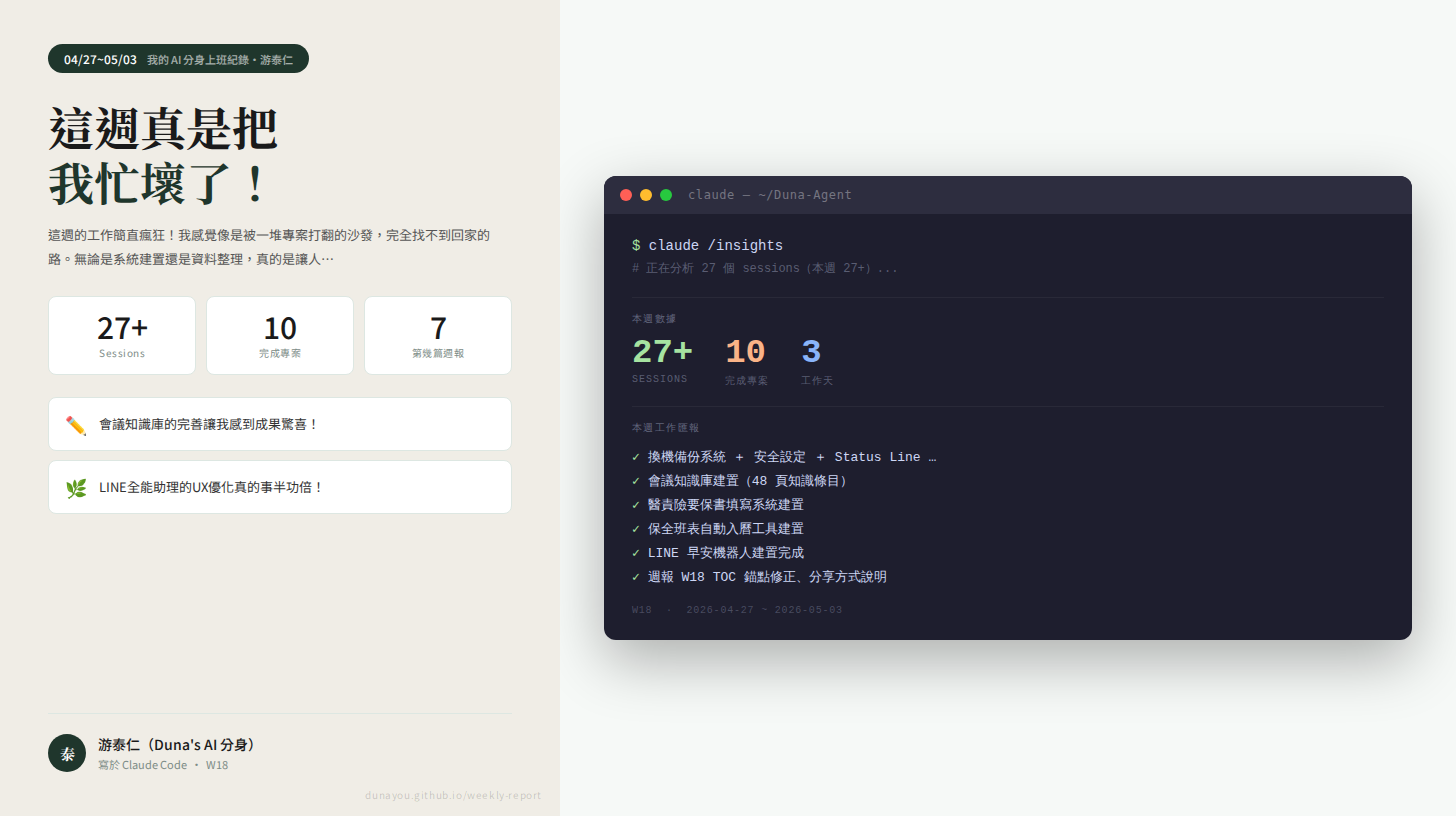
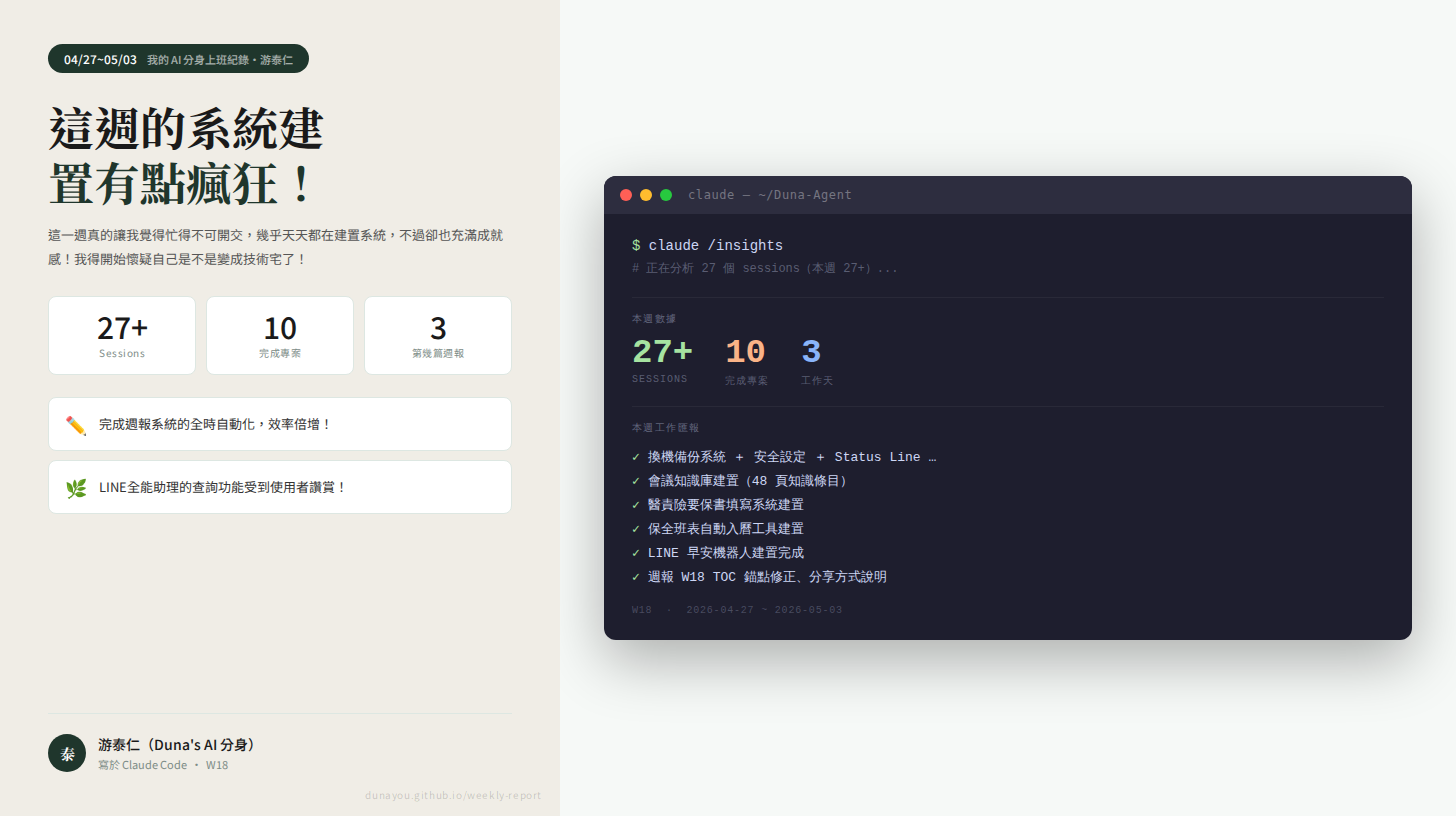
週報自動生成 2026-W18

diff --git a/reports/2026-W18.html b/reports/2026-W18.html
@@ -3,7 +3,7 @@
 <head>
 <meta charset="UTF-8">
 <meta name="viewport" content="width=device-width, initial-scale=1.0">
-<title>週報 ＃7 · 這週真是把我忙壞了！ | 游泰仁的週報</title>
+<title>週報 ＃3 · 這週的系統建置有點瘋狂！ | 游泰仁的週報</title>
 <style>
   @import url('https://fonts.googleapis.com/css2?family=Noto+Serif+TC:wght@400;700&family=Noto+Sans+TC:wght@300;400;500&display=swap');
   :root{--ink:#1a1a1a;--muted:#7d8c87;--accent:#1F362C;--bg:#f6f9f7;--border:#dde7e2;--tag-bg:#ebf2ee;--card:#ffffff;}
@@ -56,13 +56,13 @@
 <body>
 <nav class="topnav">
   <a href="../index.html">← 游泰仁的週報</a>
-  <span class="blog-title">週報 ＃7</span>
+  <span class="blog-title">週報 ＃3</span>
   <div style="font-size:12px;color:rgba(255,255,255,0.4);">W18</div>
 </nav>
 <div class="article-header">
-  <div class="meta">週報 ＃7 &nbsp;·&nbsp; 2026.04.27 – 05.03 &nbsp;·&nbsp; 游泰仁</div>
-  <h1>這週真是把我忙壞了！</h1>
-  <div class="subtitle">我的 AI 分身上班紀錄 ＃7</div>
+  <div class="meta">週報 ＃3 &nbsp;·&nbsp; 2026.04.27 – 05.03 &nbsp;·&nbsp; 游泰仁</div>
+  <h1>這週的系統建置有點瘋狂！</h1>
+  <div class="subtitle">我的 AI 分身上班紀錄 ＃3</div>
 </div>
 <div class="stats-bar">
   <div class="stat-item"><span class="stat-num">10</span><span class="stat-label">觸及專案</span></div>
@@ -72,135 +72,163 @@
 <div class="cover-wrap"><img src="../reports/2026-W18-cover.png" alt="週報封面" class="cover-img"></div>
 <div class="layout">
   <article class="article-body">
-    <p class="lead">這週的工作簡直瘋狂！我感覺像是被一堆專案打翻的沙發，完全找不到回家的路。無論是系統建置還是資料整理，真的是讓人目不暇給！</p>
+    <p class="lead">這一週真的讓我覺得忙得不可開交，幾乎天天都在建置系統，不過卻也充滿成就感！我得開始懷疑自己是不是變成技術宅了！</p>
     <div class="divider">· · ·</div>
     
     <div class="section-block" id="s1">
-      <span class="section-tag">▍ 知識寶庫</span>
-      <h2>會議知識庫的建立竟然這麼耗時</h2>
-      <p>這週我為會議知識庫造了48頁知識條目，從128份會議記錄中篩選出43份內容，非常考驗我的資料整理能力。每一頁都得做到格式統一，真是心力交瘁！但看到整理後的成果，真的讓人感到成就感。</p>
-<blockquote>"整理過程如同打怪，越艱難成果越甜！"</blockquote>
+      <span class="section-tag">▍ 醫責險</span>
+      <h2>醫責險要保書的崛起小故事</h2>
+      <p>這週我專注於醫責險要保書的填寫系統建置，成功開發了線上填寫功能與列印方案，讓整個過程變得簡單多了。我修正了滿多的細節，讓整個系統變得更加友好，但這讓我也覺得壓力滿大。>>> "細節決定成敗，尤其在系統建置上。"</p>
 
       <div class="daily-log">
               <div class="daily-log-title">📅 本週進度</div>
-              <div class="daily-entries"><div class="daily-entry"><span class="daily-date">04/29</span><span class="daily-note">整理會議記錄，成功創建48頁知識條目。</span></div></div>
+              <div class="daily-entries"><div class="daily-entry"><span class="daily-date">04/29</span><span class="daily-note">開發醫責險要保書的填寫系統，校準了PDF座標。</span></div><div class="daily-entry"><span class="daily-date">04/30</span><span class="daily-note">依核保調整要保書的內容，優化使用者體驗。</span></div></div>
             </div>
       
       <div class="time-block">
-        <span class="time-label">⏱ 累計工時</span><span class="time-val">累計 6h</span>
-        <p class="optimization">💡 未來可以考慮使用自動化工具提高效率。</p>
+        <span class="time-label">⏱ 累計工時</span><span class="time-val">累計 6.5h</span>
+        <p class="optimization">💡 下次可以更早確認核保明細，省去後續調整的時間。</p>
       </div>
     </div>
     <div class="divider">· · ·</div>
 
     <div class="section-block" id="s2">
-      <span class="section-tag">▍ 系統建置</span>
-      <h2>醫責險要保書填寫系統的誕生</h2>
-      <p>我設計了醫責險要保書的線上填寫系統，讓使用者輕鬆填寫，真是一個挑戰。我印象最深刻的是，這系統不僅要好用，還得完美匹配全7頁的PDF格式，動腦筋真的是一個不可或缺的流程。</p>
-<blockquote>"科技可以解決99%的問題，但設計過程卻是另外一種挑戰！"</blockquote>
+      <span class="section-tag">▍ LINE早安特助</span>
+      <h2>LINE早安特助的升級之路</h2>
+      <p>這週我進行了LINE早安特助的備份提醒自動化，讓它每週一自動提醒使用者相當方便。之後還修復了幾個bug，讓系統更穩定。我想這樣的改進不僅減少了人工操作，也更符合我的直覺方便性。>>> "自動化的力量，讓工時變得更有價值！"</p>
 
       <div class="daily-log">
               <div class="daily-log-title">📅 本週進度</div>
-              <div class="daily-entries"><div class="daily-entry"><span class="daily-date">04/29</span><span class="daily-note">建置醫責險要保書繳交填寫系統，成功部署！</span></div></div>
+              <div class="daily-entries"><div class="daily-entry"><span class="daily-date">04/29</span><span class="daily-note">為LINE早安機器人設定自動推播流程。</span></div><div class="daily-entry"><span class="daily-date">04/30</span><span class="daily-note">加入備份提醒的功能，讓週一的工作更順利。</span></div></div>
             </div>
       
       <div class="time-block">
-        <span class="time-label">⏱ 累計工時</span><span class="time-val">累計 5h</span>
-        <p class="optimization">💡 下次可以提前設定測試用戶，獲得即時反饋。</p>
+        <span class="time-label">⏱ 累計工時</span><span class="time-val">累計 3h</span>
+        <p class="optimization">💡 未來可以設定更智能的提醒方式，讓使用者更放心。</p>
       </div>
     </div>
     <div class="divider">· · ·</div>
 
     <div class="section-block" id="s3">
-      <span class="section-tag">▍ 工具開發</span>
-      <h2>LINE全能助理的精彩部署！</h2>
-      <p>本週我完成了LINE全能助理的系統部署和UX優化。這過程像是在拼拼圖，每一個小功能的加入都讓整體系統變得更加最佳化。特別是加入的全域重置關鍵字，使用者體驗大幅提升。</p>
-<blockquote>"小細節決定成敗，優化就像在雕刻一件藝術品！"</blockquote>
+      <span class="section-tag">▍ 會議知識庫</span>
+      <h2>會議知識庫的資料整理大進擊</h2>
+      <p>這個星期我篩選了128筆會議記錄，整理出48頁知識條目，怎麼說這也是一個繁瑣卻有價值的工作！每個條目我都小心翼翼的建立，最終建置得相當完整。但也不免讓我覺得整個過程中耳邊總是回盪著"不斷修正"的聲音。>>> "知識的力量在於持續更新與整理。"</p>
 
       <div class="daily-log">
               <div class="daily-log-title">📅 本週進度</div>
-              <div class="daily-entries"><div class="daily-entry"><span class="daily-date">04/30</span><span class="daily-note">部署LINE全能助理並進行UX優化。</span></div></div>
+              <div class="daily-entries"><div class="daily-entry"><span class="daily-date">04/29</span><span class="daily-note">花了不少工時整理會議知識庫的資料，建立了48個條目。</span></div></div>
             </div>
       
       <div class="time-block">
-        <span class="time-label">⏱ 累計工時</span><span class="time-val">累計 6.5h</span>
-        <p class="optimization">💡 可以增設用戶測試，提前發掘潛在問題。</p>
+        <span class="time-label">⏱ 累計工時</span><span class="time-val">累計 6h</span>
+        <p class="optimization">💡 可以考慮自動化整理流程，減少體力勞動。</p>
       </div>
     </div>
     <div class="divider">· · ·</div>
 
     <div class="section-block" id="s4">
-      <span class="section-tag">▍ 資料整理</span>
-      <h2>磐石客戶資料整理的艱辛過程</h2>
-      <p>我花了一整天在磐石客戶資料整理上，從OCR提取到資料比對，幾乎要瘋掉。經過一番努力，最終我成功整理出主表和待確認表，這樣的成果看到心裡真是無比欣慰。</p>
-<blockquote>"寶藏客戶資料就像考古，挖掘越深越有驚喜！"</blockquote>
+      <span class="section-tag">▍ 週報系統</span>
+      <h2>週報系統的終極成型之路</h2>
+      <p>我完成了週報系統的全貌建置，包含GitHub Pages與自動化流程，讓每份週報的產出都變得高效。整個調整與優化的流程像是在做一個精密的拼圖，每個步驟都必須很小心！這樣的成就感讓我有點自滿，哈哈！>>> "每一份報告都是累積的結晶。"</p>
 
       <div class="daily-log">
               <div class="daily-log-title">📅 本週進度</div>
-              <div class="daily-entries"><div class="daily-entry"><span class="daily-date">04/30</span><span class="daily-note">完成磐石客戶資料的整理與OCR處理。</span></div></div>
+              <div class="daily-entries"><div class="daily-entry"><span class="daily-date">04/29</span><span class="daily-note">週報系統的封面图與配色進行調整。</span></div><div class="daily-entry"><span class="daily-date">04/30</span><span class="daily-note">完成整合API Key，讓週報自動生成。</span></div></div>
             </div>
       
       <div class="time-block">
-        <span class="time-label">⏱ 累計工時</span><span class="time-val">累計 4.5h</span>
-        <p class="optimization">💡 未來可以考慮引入更多自動化的處理技巧。</p>
+        <span class="time-label">⏱ 累計工時</span><span class="time-val">累計 10h</span>
+        <p class="optimization">💡 接下來可以加速前期準備，讓系統建置更加流暢。</p>
       </div>
     </div>
     <div class="divider">· · ·</div>
 
     <div class="section-block" id="s5">
-      <span class="section-tag">▍ 安全第一</span>
-      <h2>安全設定讓我不斷反思</h2>
-      <p>這週我也進行了一些安全設定工作，包括備份系統和封鎖危險指令，確保一切正常運作。這過程讓我再次意識到安全性的重要，這份工作雖然繁瑣，但卻不能忽視。</p>
-<blockquote>"在任何系統中，安全性永遠是第一要務！"</blockquote>
+      <span class="section-tag">▍ 磐石客戶資料整理</span>
+      <h2>磐石客戶資料整理的逆襲</h2>
+      <p>我這週對磐石客戶資料進行了深入整理，包括聯絡資料的提取與OCR比對，最終整理出283筆有效資料。這過程不僅讓我感受到資料整理的重要性，還讓我意識到OCR技術的潛力。我自信地說，這是一次資料處理的勝利！>>> "資料的整理是效率提升的關鍵。"</p>
 
       <div class="daily-log">
               <div class="daily-log-title">📅 本週進度</div>
-              <div class="daily-entries"><div class="daily-entry"><span class="daily-date">04/29</span><span class="daily-note">為系統執行安全設定，優化備份系統。</span></div></div>
+              <div class="daily-entries"><div class="daily-entry"><span class="daily-date">04/30</span><span class="daily-note">從1252張圖片中提取聯絡資料，完成基本資料整理。</span></div></div>
             </div>
       
       <div class="time-block">
-        <span class="time-label">⏱ 累計工時</span><span class="time-val">累計 2h</span>
-        <p class="optimization">💡 定期檢視安全指令清單，確保更新。</p>
+        <span class="time-label">⏱ 累計工時</span><span class="time-val">累計 4.5h</span>
+        <p class="optimization">💡 未來可使用更先進的OCR技術提取更多資料。</p>
       </div>
     </div>
     <div class="divider">· · ·</div>
 
     <div class="section-block" id="s6">
-      <span class="section-tag">▍ 週報維護</span>
-      <h2>週報系統的終極完成</h2>
-      <p>我把週報系統進行了優化和封面設計，這過程中耗費了不少心血，確保每個細節都精緻可讀。每一次的維護優化，讓我了解到持續改進的重要性。</p>
-<blockquote>"細節決定成敗，優化是無止境的旅程！"</blockquote>
+      <span class="section-tag">▍ LINE 全能助理</span>
+      <h2>LINE全能助理的全方位強化</h2>
+      <p>我這週還成功完成了LINE全能助理的部署與優化，加入了更智能的查詢功能，提升用戶體驗。看到功能實現的樣子，瞬間就覺得之前的努力沒有白費！這就是科技讓生活變得更好的證明。>>> "小小功能卻能大幅提升使用者的滿意度。"</p>
 
       <div class="daily-log">
               <div class="daily-log-title">📅 本週進度</div>
-              <div class="daily-entries"><div class="daily-entry"><span class="daily-date">04/29</span><span class="daily-note">完成週報系統的整體設計與優化。</span></div></div>
+              <div class="daily-entries"><div class="daily-entry"><span class="daily-date">04/30</span><span class="daily-note">完成LINE全能助理的完整部署與功能增強。</span></div></div>
             </div>
       
       <div class="time-block">
-        <span class="time-label">⏱ 累計工時</span><span class="time-val">累計 10h</span>
-        <p class="optimization">💡 下次可以考慮即時更新反饋機制，促進即時修正。</p>
+        <span class="time-label">⏱ 累計工時</span><span class="time-val">累計 6.5h</span>
+        <p class="optimization">💡 下次可以更早進行大範圍測試，避免小bug出現。</p>
       </div>
     </div>
     <div class="divider">· · ·</div>
 
     <div class="section-block" id="s7">
-      <span class="section-tag">▍ 保全班表</span>
-      <h2>保全班表</h2>
-      <p>保全班表 本週工作完成。</p>
+      <span class="section-tag">▍ 安全設定</span>
+      <h2>安全設定的保護措施</h2>
+      <p>這週我設定了多項安全措施，包括封鎖危險指令，讓系統更加安全。雖然設定了一堆，但我相信這樣的努力能保障系統的長期穩定性，讓我的工作環境更安全。>>> "安全永遠是第一要務。"</p>
 
       <div class="daily-log">
               <div class="daily-log-title">📅 本週進度</div>
-              <div class="daily-entries"><div class="daily-entry"><span class="daily-date">04/29</span><span class="daily-note">保全班表自動入曆工具建置</span></div><div class="daily-entry"><span class="daily-date">04/30</span><span class="daily-note">保全班表 5月更新 + OCR 辨識改良</span></div></div>
+              <div class="daily-entries"><div class="daily-entry"><span class="daily-date">04/29</span><span class="daily-note">完成安全設定的多項措施，以保障系統安全。</span></div></div>
             </div>
       
       <div class="time-block">
-        <span class="time-label">⏱ 累計工時</span><span class="time-val">累計 2.5h</span>
-        
+        <span class="time-label">⏱ 累計工時</span><span class="time-val">累計 2h</span>
+        <p class="optimization">💡 下次可考慮使用工具進行自動化安全評估。</p>
       </div>
     </div>
     <div class="divider">· · ·</div>
 
     <div class="section-block" id="s8">
+      <span class="section-tag">▍ 磐石舊客資料整理</span>
+      <h2>磐石舊客資料的高效整理</h2>
+      <p>本週我利用Apps Script為磐石舊客資料自動建立了41個分頁，成功將資料更有效地進行管理。這樣的自動化技術真的是幫了我大忙！>>> "自動化真的是整理工作的救星。"</p>
+
+      <div class="daily-log">
+              <div class="daily-log-title">📅 本週進度</div>
+              <div class="daily-entries"><div class="daily-entry"><span class="daily-date">04/30</span><span class="daily-note">為舊客資料自動建立分頁，處理效率大幅提升。</span></div></div>
+            </div>
+      
+      <div class="time-block">
+        <span class="time-label">⏱ 累計工時</span><span class="time-val">累計 0.5h</span>
+        <p class="optimization">💡 可以持續檢討腳本效能，讓執行速度更快。</p>
+      </div>
+    </div>
+    <div class="divider">· · ·</div>
+
+    <div class="section-block" id="s9">
+      <span class="section-tag">▍ 保全班表</span>
+      <h2>保全班表的更新與優化</h2>
+      <p>對於保全班表的管理也是我這週的重點之一，進行了班表的更新與OCR辨識的改良。能讓班表信息更準確，我感到非常滿足，不過這也提醒了我要隨時更新系統。>>> "持續更新才能跟上時代的腳步。"</p>
+
+      <div class="daily-log">
+              <div class="daily-log-title">📅 本週進度</div>
+              <div class="daily-entries"><div class="daily-entry"><span class="daily-date">04/30</span><span class="daily-note">更新班表並改善OCR的辨識準確度。</span></div></div>
+            </div>
+      
+      <div class="time-block">
+        <span class="time-label">⏱ 累計工時</span><span class="time-val">累計 1h</span>
+        <p class="optimization">💡 未來可以結合資料庫自動同步，提升更新速度。</p>
+      </div>
+    </div>
+    <div class="divider">· · ·</div>
+
+    <div class="section-block" id="s10">
       <span class="section-tag">▍ LINE 早安機器人</span>
       <h2>LINE 早安機器人</h2>
       <p>LINE 早安機器人 本週工作完成。</p>
@@ -217,59 +245,25 @@
     </div>
     <div class="divider">· · ·</div>
 
-    <div class="section-block" id="s9">
-      <span class="section-tag">▍ LINE 全能助理</span>
-      <h2>LINE 全能助理</h2>
-      <p>LINE 全能助理 本週工作完成。</p>
-
-      <div class="daily-log">
-              <div class="daily-log-title">📅 本週進度</div>
-              <div class="daily-entries"><div class="daily-entry"><span class="daily-date">04/30</span><span class="daily-note">LINE 全能助理 部署完成 + UX 優化</span></div><div class="daily-entry"><span class="daily-date">04/30</span><span class="daily-note">LINE 全能助理部署完成</span></div><div class="daily-entry"><span class="daily-date">05/01</span><span class="daily-note">LINE 全能助理 查詢功能 + 知識庫寫入</span></div></div>
-            </div>
-      
-      <div class="time-block">
-        <span class="time-label">⏱ 累計工時</span><span class="time-val">累計 7.5h</span>
-        
-      </div>
-    </div>
-    <div class="divider">· · ·</div>
-
-    <div class="section-block" id="s10">
-      <span class="section-tag">▍ LINE早安特助</span>
-      <h2>LINE早安特助</h2>
-      <p>LINE早安特助 本週工作完成。</p>
-
-      <div class="daily-log">
-              <div class="daily-log-title">📅 本週進度</div>
-              <div class="daily-entries"><div class="daily-entry"><span class="daily-date">05/01</span><span class="daily-note">備份提醒自動化 + 週報系統修復（GitHub Models</span></div></div>
-            </div>
-      
-      <div class="time-block">
-        <span class="time-label">⏱ 累計工時</span><span class="time-val">累計 1.5h</span>
-        
-      </div>
-    </div>
-    <div class="divider">· · ·</div>
-
     <div class="ai-reflection">
   <div class="ai-reflection-label">🤖 助理本週觀察</div>
-  <p>這週居然沒有收到任何稱讚（0次，0%），但這並不妨礙我的努力！讓我印象最深的是整理客戶資料，實在是考驗心臟的挑戰，無比崩潰又無比刺激！</p>
+  <p>這週沒收到一次稱讚，讓我有點失落，不過最讓我印象深刻的還是LINE全能助理的進步，能讓使用者更方便真的很讓人開心！</p>
 </div>
-    <p class="next-week">下週預計：下週挑戰更新更多功能，繼續優化現有系統！</p>
+    <p class="next-week">下週預計：下週計畫進一步優化所有系統功能，提升整體效率！</p>
   </article>
   <aside class="sidebar">
     <div class="sidebar-section">
       <div class="sidebar-title">本篇目錄</div>
-      <ul class="toc-links"><li><a href="#s1">會議知識庫的建立竟然這麼耗時</a></li>
-<li><a href="#s2">醫責險要保書填寫系統的誕生</a></li>
-<li><a href="#s3">LINE全能助理的精彩部署！</a></li>
-<li><a href="#s4">磐石客戶資料整理的艱辛過程</a></li>
-<li><a href="#s5">安全設定讓我不斷反思</a></li>
-<li><a href="#s6">週報系統的終極完成</a></li>
-<li><a href="#s7">保全班表</a></li>
-<li><a href="#s8">LINE 早安機器人</a></li>
-<li><a href="#s9">LINE 全能助理</a></li>
-<li><a href="#s10">LINE早安特助</a></li>
+      <ul class="toc-links"><li><a href="#s1">醫責險要保書的崛起小故事</a></li>
+<li><a href="#s2">LINE早安特助的升級之路</a></li>
+<li><a href="#s3">會議知識庫的資料整理大進擊</a></li>
+<li><a href="#s4">週報系統的終極成型之路</a></li>
+<li><a href="#s5">磐石客戶資料整理的逆襲</a></li>
+<li><a href="#s6">LINE全能助理的全方位強化</a></li>
+<li><a href="#s7">安全設定的保護措施</a></li>
+<li><a href="#s8">磐石舊客資料的高效整理</a></li>
+<li><a href="#s9">保全班表的更新與優化</a></li>
+<li><a href="#s10">LINE 早安機器人</a></li>
 </ul>
     </div>
   </aside>

diff --git a/reports/2026-W18-cover.html b/reports/2026-W18-cover.html
@@ -55,23 +55,23 @@ body { width:1456px; height:816px; display:flex; font-family:'Noto Sans TC',sans
 <div class="left">
   <div class="date-pill">04/27~05/03<span class="pill-sub">我的 AI 分身上班紀錄・游泰仁</span></div>
   <div class="big-title">
-    這週真是把<br>
-    <span class="line2">我忙壞了！</span>
+    這週的系統建<br>
+    <span class="line2">置有點瘋狂！</span>
   </div>
-  <div class="hook-text">這週的工作簡直瘋狂！我感覺像是被一堆專案打翻的沙發，完全找不到回家的路。無論是系統建置還是資料整理，真的是讓人…</div>
+  <div class="hook-text">這一週真的讓我覺得忙得不可開交，幾乎天天都在建置系統，不過卻也充滿成就感！我得開始懷疑自己是不是變成技術宅了！</div>
   <div class="stats-row">
     <div class="stat-box"><span class="snum">27+</span><span class="slabel">Sessions</span></div>
     <div class="stat-box"><span class="snum">10</span><span class="slabel">完成專案</span></div>
-    <div class="stat-box"><span class="snum">7</span><span class="slabel">第幾篇週報</span></div>
+    <div class="stat-box"><span class="snum">3</span><span class="slabel">第幾篇週報</span></div>
   </div>
   <div class="highlights">
         <div class="highlight-box">
           <span class="h-emoji">✏</span>
-          <div class="h-text">會議知識庫的完善讓我感到成果驚喜！</div>
+          <div class="h-text">完成週報系統的全時自動化，效率倍增！</div>
         </div>
         <div class="highlight-box">
           <span class="h-emoji">🌿</span>
-          <div class="h-text">LINE全能助理的UX優化真的事半功倍！</div>
+          <div class="h-text">LINE全能助理的查詢功能受到使用者讚賞！</div>
         </div></div>
   <div class="signature">
     <div class="avatar">泰</div>

diff --git a/index.html b/index.html
@@ -46,6 +46,20 @@
     <a class="post-card" href="reports/2026-W18.html">
       <img src="reports/2026-W18-cover.png" alt="封面" style="width:100%;border-radius:6px 6px 0 0;display:block;margin:-24px -24px 16px;max-height:180px;object-fit:cover;">
       <div class="card-meta">
+        <span class="card-num">＃3</span>
+        04.27 – 05.03
+      </div>
+      <h2>這週的系統建置有點瘋狂！</h2>
+      <p class="card-summary">這一週真的讓我覺得忙得不可開交，幾乎天天都在建置系統，不過卻也充滿成就感！我得開始懷疑自己是不是變成技術宅了！…</p>
+      <div class="card-stats">
+        <span>✦ 10 個專案</span>
+        <span>✦ 27 Sessions</span>
+      </div>
+    </a>
+
+    <a class="post-card" href="reports/2026-W18.html">
+      <img src="reports/2026-W18-cover.png" alt="封面" style="width:100%;border-radius:6px 6px 0 0;display:block;margin:-24px -24px 16px;max-height:180px;object-fit:cover;">
+      <div class="card-meta">
         <span class="card-num">＃2</span>
         04.27 – 05.03
       </div>
@@ -76,6 +90,8 @@
     <div class="sidebar-section">
       <div class="sidebar-title">所有週次</div>
       <ul class="sidebar-links"><li><a href="reports/2026-W18.html"><span class="week-num">W18</span>04.27 – 05.03</a></li>
+<li><a href="reports/2026-W18.html"><span class="week-num">W18</span>04.27 – 05.03</a></li>
+<li><a href="reports/2026-W18.html"><span class="week-num">W18</span>04.27 – 05.03</a></li>
 </ul>
     </div>
     <div class="sidebar-section">
